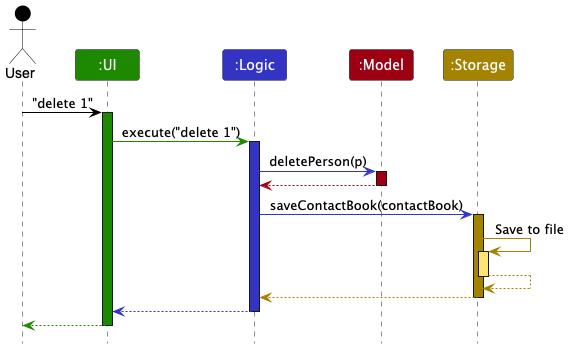
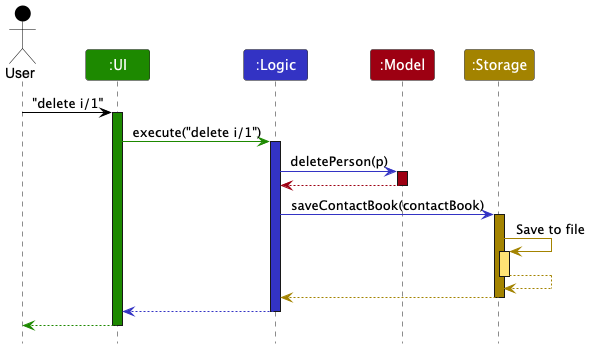
Update developer guide

diff --git a/docs/DeveloperGuide.md b/docs/DeveloperGuide.md
@@ -18,11 +18,15 @@ h2 {
 <style>
 h1 {
   color: #E84C23 !important;
-  font-size: 4rem !important;
+  font-size: 3rem !important;
   font-weight: 800 !important;
   line-height: 1.2;
   margin-top: 2rem;
   margin-bottom: .9rem;
+}
+
+p {
+    font-size: 1rem !important;
 }
 </style>
 
@@ -76,7 +80,7 @@ The bulk of the app's work is done by the following four components:
 
 **How the architecture components interact with each other**
 
-The *Sequence Diagram* below shows how the components interact with each other for the scenario where the user issues the command `delete 1`.
+The *Sequence Diagram* below shows how the components interact with each other for the scenario where the user issues the command `delete i/1`.
 
 <img src="images/ArchitectureSequenceDiagram.png" width="574" />
 
@@ -116,9 +120,9 @@ Here's a (partial) class diagram of the `Logic` component:
 
 <img src="images/LogicClassDiagram.png" width="550"/>
 
-The sequence diagram below illustrates the interactions within the `Logic` component, taking `execute("delete 1")` API call as an example.
+The sequence diagram below illustrates the interactions within the `Logic` component, taking `execute("delete i/1")` API call as an example.
 
-![Interactions Inside the Logic Component for the `delete 1` Command](images/DeleteSequenceDiagram.png)
+![Interactions Inside the Logic Component for the `delete i/1` Command](images/DeleteSequenceDiagram.png)
 
 <div markdown="span" class="alert alert-info">:information_source: **Note:** The lifeline for `DeleteCommandParser` should end at the destroy marker (X) but due to a limitation of PlantUML, the lifeline continues till the end of diagram.
 </div>
@@ -169,101 +173,6 @@ Classes used by multiple components are in the `presspal.contact.commons` packag
 
 --------------------------------------------------------------------------------------------------------------------
 
-## **Implementation**
-
-This section describes some noteworthy details on how certain features are implemented.
-
-### \[Proposed\] Undo/redo feature
-
-#### Proposed Implementation
-
-The proposed undo/redo mechanism is facilitated by `VersionedContactBook`. It extends `ContactBook` with an undo/redo history, stored internally as an `contactBookStateList` and `currentStatePointer`. Additionally, it implements the following operations:
-
-* `VersionedContactBook#commit()` — Saves the current contact book state in its history.
-* `VersionedContactBook#undo()` — Restores the previous contact book state from its history.
-* `VersionedContactBook#redo()` — Restores a previously undone contact book state from its history.
-
-These operations are exposed in the `Model` interface as `Model#commitContactBook()`, `Model#undoContactBook()` and `Model#redoContactBook()` respectively.
-
-Given below is an example usage scenario and how the undo/redo mechanism behaves at each step.
-
-Step 1. The user launches the application for the first time. The `VersionedContactBook` will be initialized with the initial contact book state, and the `currentStatePointer` pointing to that single contact book state.
-
-![UndoRedoState0](images/UndoRedoState0.png)
-
-Step 2. The user executes `delete 5` command to delete the 5th person in the contact book. The `delete` command calls `Model#commitContactBook()`, causing the modified state of the contact book after the `delete 5` command executes to be saved in the `contactBookStateList`, and the `currentStatePointer` is shifted to the newly inserted contact book state.
-
-![UndoRedoState1](images/UndoRedoState1.png)
-
-Step 3. The user executes `add n/David …` to add a new person. The `add` command also calls `Model#commitContactBook()`, causing another modified contact book state to be saved into the `contactBookStateList`.
-
-![UndoRedoState2](images/UndoRedoState2.png)
-
-<div markdown="span" class="alert alert-info">:information_source: **Note:** If a command fails its execution, it will not call `Model#commitContactBook()`, so the contact book state will not be saved into the `contactBookStateList`.
-
-</div>
-
-Step 4. The user now decides that adding the person was a mistake, and decides to undo that action by executing the `undo` command. The `undo` command will call `Model#undoContactBook()`, which will shift the `currentStatePointer` once to the left, pointing it to the previous contact book state, and restores the contact book to that state.
-
-![UndoRedoState3](images/UndoRedoState3.png)
-
-<div markdown="span" class="alert alert-info">:information_source: **Note:** If the `currentStatePointer` is at index 0, pointing to the initial ContactBook state, then there are no previous ContactBook states to restore. The `undo` command uses `Model#canUndoContactBook()` to check if this is the case. If so, it will return an error to the user rather
-than attempting to perform the undo.
-
-</div>
-
-The following sequence diagram shows how an undo operation goes through the `Logic` component:
-
-![UndoSequenceDiagram](images/UndoSequenceDiagram-Logic.png)
-
-<div markdown="span" class="alert alert-info">:information_source: **Note:** The lifeline for `UndoCommand` should end at the destroy marker (X) but due to a limitation of PlantUML, the lifeline reaches the end of diagram.
-
-</div>
-
-Similarly, how an undo operation goes through the `Model` component is shown below:
-
-![UndoSequenceDiagram](images/UndoSequenceDiagram-Model.png)
-
-The `redo` command does the opposite — it calls `Model#redoContactBook()`, which shifts the `currentStatePointer` once to the right, pointing to the previously undone state, and restores the contact book to that state.
-
-<div markdown="span" class="alert alert-info">:information_source: **Note:** If the `currentStatePointer` is at index `contactBookStateList.size() - 1`, pointing to the latest contact book state, then there are no undone ContactBook states to restore. The `redo` command uses `Model#canRedoContactBook()` to check if this is the case. If so, it will return an error to the user rather than attempting to perform the redo.
-
-</div>
-
-Step 5. The user then decides to execute the command `list`. Commands that do not modify the contact book, such as `list`, will usually not call `Model#commitContactBook()`, `Model#undoContactBook()` or `Model#redoContactBook()`. Thus, the `contactBookStateList` remains unchanged.
-
-![UndoRedoState4](images/UndoRedoState4.png)
-
-Step 6. The user executes `clear`, which calls `Model#commitContactBook()`. Since the `currentStatePointer` is not pointing at the end of the `contactBookStateList`, all contact book states after the `currentStatePointer` will be purged. Reason: It no longer makes sense to redo the `add n/David …` command. This is the behavior that most modern desktop applications follow.
-
-![UndoRedoState5](images/UndoRedoState5.png)
-
-The following activity diagram summarizes what happens when a user executes a new command:
-
-<img src="images/CommitActivityDiagram.png" width="250" />
-
-#### Design considerations:
-
-**Aspect: How undo & redo executes:**
-
-* **Alternative 1 (current choice):** Saves the entire contact book.
-  * Pros: Easy to implement.
-  * Cons: May have performance issues in terms of memory usage.
-
-* **Alternative 2:** Individual command knows how to undo/redo by
-  itself.
-  * Pros: Will use less memory (e.g. for `delete`, just save the person being deleted).
-  * Cons: We must ensure that the implementation of each individual command are correct.
-
-_{more aspects and alternatives to be added}_
-
-### \[Proposed\] Data archiving
-
-_{Explain here how the data archiving feature will be implemented}_
-
-
---------------------------------------------------------------------------------------------------------------------
-
 ## **Documentation, logging, testing, configuration, dev-ops**
 
 * [Documentation guide](Documentation.md)
@@ -298,27 +207,27 @@ _{Explain here how the data archiving feature will be implemented}_
 
 Priorities: High (must have) - `* * *`, Medium (nice to have) - `* *`, Low (unlikely to have) - `*`
 
-| Priority | As a …                              | I can …                                                                                     | So that I can…                                                            |
-|-------|-------------------------------------|---------------------------------------------------------------------------------------------|---------------------------------------------------------------------------|
-| `* * *` | basic user                          | create new contacts with the add contact functions (name, phone, email, organisation, role) | retrieve the contact easily when I need them                              |
-| `* * *` | basic user                          | add category(s) to a contact                                                                | search the contact with the category(s) for easy reference                |
-| `* * *` | basic user                          | add an interview to a contact with details (date, time, location, header)                   | easily track and know my interview schedule with a specific person        |
-| `* * *` | basic user                          | delete contacts from the contact book                                                       | keep my contact book organised                                            |
-| `* * *` | basic user                          | delete category(s) from a contact                                                           | keep my contact book organised                                            |
-| `* * *` | basic user                          | delete an interview from a contact                                                          | keep my schedule up to date and avoid confusion from outdated information |
-| `* * *` | basic user                          | search contacts by their names                                                              | quickly find the specific person I’m looking for                          |
-| `* * *` | basic user                          | see a list of all persons in the contact book                                               | check all my contacts in the contact book at once                         |
-| `* * *` | basic user                          | see a list of all interviews of a contact                                                   | check all my interviews with a specific person                            |
-| `* * *` | advanced user/ fast typer           | utilise fast-typing shortcuts during data entry                                             | enter information quickly and reduce wait times                           |
-| `* *` | beginner, basic user, advanced user | work with an intuitive user interface                                                       | can work more efficiently                                                 |
-| `* *` | basic user, beginner                | have error-prevention features built into the data entry process                            | record the contact correctly the first time                               |
-| `* *` | beginner                            | view the user guide easily                                                                  | learn more about the product                                              |
-| `* *` | basic user                          | see my next upcoming interview across all scheduled interviews                              | quickly know when and with whome my next interview is happening           |
-| `* *` | basic user                          | edits an existing person in the contact book (name, phone, email, organisation, role)       | keep my contacts updated in the contact book                              |
-| `* *` | basic user                          | search contacts by their organisation                                                       | find a person from a specific organisation                                |
-| `* *` | basic user                          | search contacts by their roles                                                              | find a person with related role                                           |
-| `* *` | basic user                          | search contacts by their categories                                                         | find a person with related categories                                     |
-| `*`   | long-time user                      | archive contacts once a story wraps up                                                      | keep my dashboard uncluttered                                             |
+| Priority | As a …                              | I can …                                                                                    | So that I can…                                                           |
+|-------|-------------------------------------|--------------------------------------------------------------------------------------------|--------------------------------------------------------------------------|
+| `* * *` | basic user                          | create new contacts with the add contact functions (name, phone, email, organisation, role) | retrieve the contact easily when I need them                             |
+| `* * *` | basic user                          | add category(s) to a contact                                                               | search the contact with the category(s) for easy reference               |
+| `* * *` | basic user                          | add an interview to a contact with details (date, time, location, header)                  | easily track and know my interview schedule with a specific person       |
+| `* * *` | basic user                          | delete contacts from the contact book                                                      | keep my contact book organised                                           |
+| `* * *` | basic user                          | delete category(s) from a contact                                                          | keep my contact book organised                                           |
+| `* * *` | basic user                          | delete an interview from a contact                                                         | keep my schedule up to date and avoid confusion from outdated information |
+| `* * *` | basic user                          | search contacts by their names                                                             | quickly find the specific person I’m looking for                         |
+| `* * *` | basic user                          | see a list of all persons in the contact book                                              | check all my contacts in the contact book at once                        |
+| `* * *` | basic user                          | see a list of all interviews of a contact                                                  | check all my interviews with a specific person                           |
+| `* * *` | advanced user/ fast typer           | utilise fast-typing shortcuts during data entry                                            | enter information quickly and reduce wait times                          |
+| `* *` | beginner, basic user, advanced user | work with an intuitive user interface                                                      | can work more efficiently                                                |
+| `* *` | basic user, beginner                | have error-prevention features built into the data entry process                           | record the contact correctly the first time                              |
+| `* *` | beginner                            | view the user guide easily                                                                 | learn more about the product                                             |
+| `* *` | basic user                          | see my next upcoming interview across all scheduled interviews                             | quickly know when and with whom my next interview is happening           |
+| `* *` | basic user                          | edit an existing person in the contact book (name, phone, email, organisation, role)       | keep my contacts updated in the contact book                             |
+| `* *` | basic user                          | search contacts by their organisation                                                      | find a person from a specific organisation                               |
+| `* *` | basic user                          | search contacts by their roles                                                             | find a person with related role                                          |
+| `* *` | basic user                          | search contacts by their categories                                                        | find a person with related categories                                    |
+| `*`   | long-time user                      | archive contacts once a story wraps up                                                     | keep my dashboard uncluttered                                            |
 
 ## **Use cases**
 
@@ -378,7 +287,7 @@ The use cases below are not exhaustive. (For all use cases below, the **System**
     Use case resumes at step 1.
 
 * 3a. One or more categories already exist for the contact.
-  * 3a1. PressPal informs the Reporter that duplicate categories cannot be added.
+  * 3a1. PressPal informs the Reporter that duplicate categories cannot be added. <br>
     Use case ends.
 
 * 3b. All specified categories already exist.
@@ -594,10 +503,9 @@ The use cases below are not exhaustive. (For all use cases below, the **System**
 **MSS**
 
 1. Reporter requests to view the next upcoming interview.
-2. PressPal retrieves all scheduled interviews and filters out those that have already occurred (i.e., past interviews).
+2. PressPal retrieves all scheduled interviews across the contact book and filters out those that have already occurred (i.e., past interviews).
 3. PressPal identifies the interview that is scheduled to occur next (closest future date and time).
-4. PressPal displays the details of the next upcoming interview to the Reporter.  
-   Use case ends.
+4. PressPal displays the details of the next upcoming interview to the Reporter.
 
    Use case ends.
 
@@ -612,8 +520,8 @@ The use cases below are not exhaustive. (For all use cases below, the **System**
     Use case ends.
 
 * 3a. Multiple upcoming interviews are scheduled at the same date and time.
-  * 3a1. PressPal displays any one of them as the next interview, following priority of the person index.  
-    Use case ends.
+  * 3a1. PressPal will display the one belonging to the contact with the lower index in the contact book 
+  as the next upcoming interview.
 
 ## Non-Functional Requirements
 
@@ -622,10 +530,10 @@ The use cases below are not exhaustive. (For all use cases below, the **System**
 3.  A user with above average typing speed for regular English text (i.e. not code, not system admin commands) should be able to accomplish most of the tasks faster using commands than using the mouse.
 
 ## Glossary
+This glossary defines key terms used within **PressPal**, a platform designed for breaking news journalists to manage and organize their contact information efficiently.
 
-* **Mainstream OS**: Windows, Linux, Unix, MacOS
-* **Private contact detail**: A contact detail that is not meant to be shared with others
-  This glossary defines key terms used within **PressPal**, a platform designed for breaking news journalists to manage and organize their contact information efficiently.
+* **Mainstream OS**: Windows, Linux, Unix, MacOS.
+* **Private contact detail**: A contact detail that is not meant to be shared with others.
 * **Account**: A user profile in PressPal that stores a journalist’s credentials, preferences, and contact database.
 * **Category**: A label or grouping used to organize contacts (e.g., “Politics,” “Health,” “Technology”).
 * **Contact**: An individual or organization entry stored in PressPal, including name, role, and at least one mode of contact (e.g., phone or email).

diff --git a/docs/_markbind/layouts/default.md b/docs/_markbind/layouts/default.md
@@ -36,12 +36,12 @@
   * [Acknowledgements]({{ baseUrl }}/DeveloperGuide.html#acknowledgements)
   * [Setting Up]({{ baseUrl }}/DeveloperGuide.html#setting-up-getting-started)
   * [Design]({{ baseUrl }}/DeveloperGuide.html#design)
-  * [Implementation]({{ baseUrl }}/DeveloperGuide.html#implementation)
-  * [Documentation, logging, testing, configuration, dev-ops]({{ baseUrl }}/DeveloperGuide.
-html#documentation-logging-testing-configuration-dev-ops)
+  * [Documentation, logging, testing, configuration, dev-ops]({{ baseUrl }}/DeveloperGuide.html#documentation-logging-testing-configuration-dev-ops)
   * [Appendix: Requirements]({{ baseUrl }}/DeveloperGuide.html#appendix-requirements)
-  * [Appendix: Instructions for manual testing]({{ baseUrl }}/DeveloperGuide.
-html#appendix-instructions-for-manual-testing)
+  * [Use Cases]({{ baseUrl }}/DeveloperGuide.html#use-cases)
+  * [Non-Functional Requirements]({{ baseUrl }}/DeveloperGuide.html#non-functional-requirements)
+  * [Glossary]({{ baseUrl }}/DeveloperGuide.html#glossary)
+  * [Appendix: Instructions for manual testing]({{ baseUrl }}/DeveloperGuide.html#appendix-instructions-for-manual-testing)
 * [About Us]({{ baseUrl }}/AboutUs.html)
       </site-nav>
     </div>
